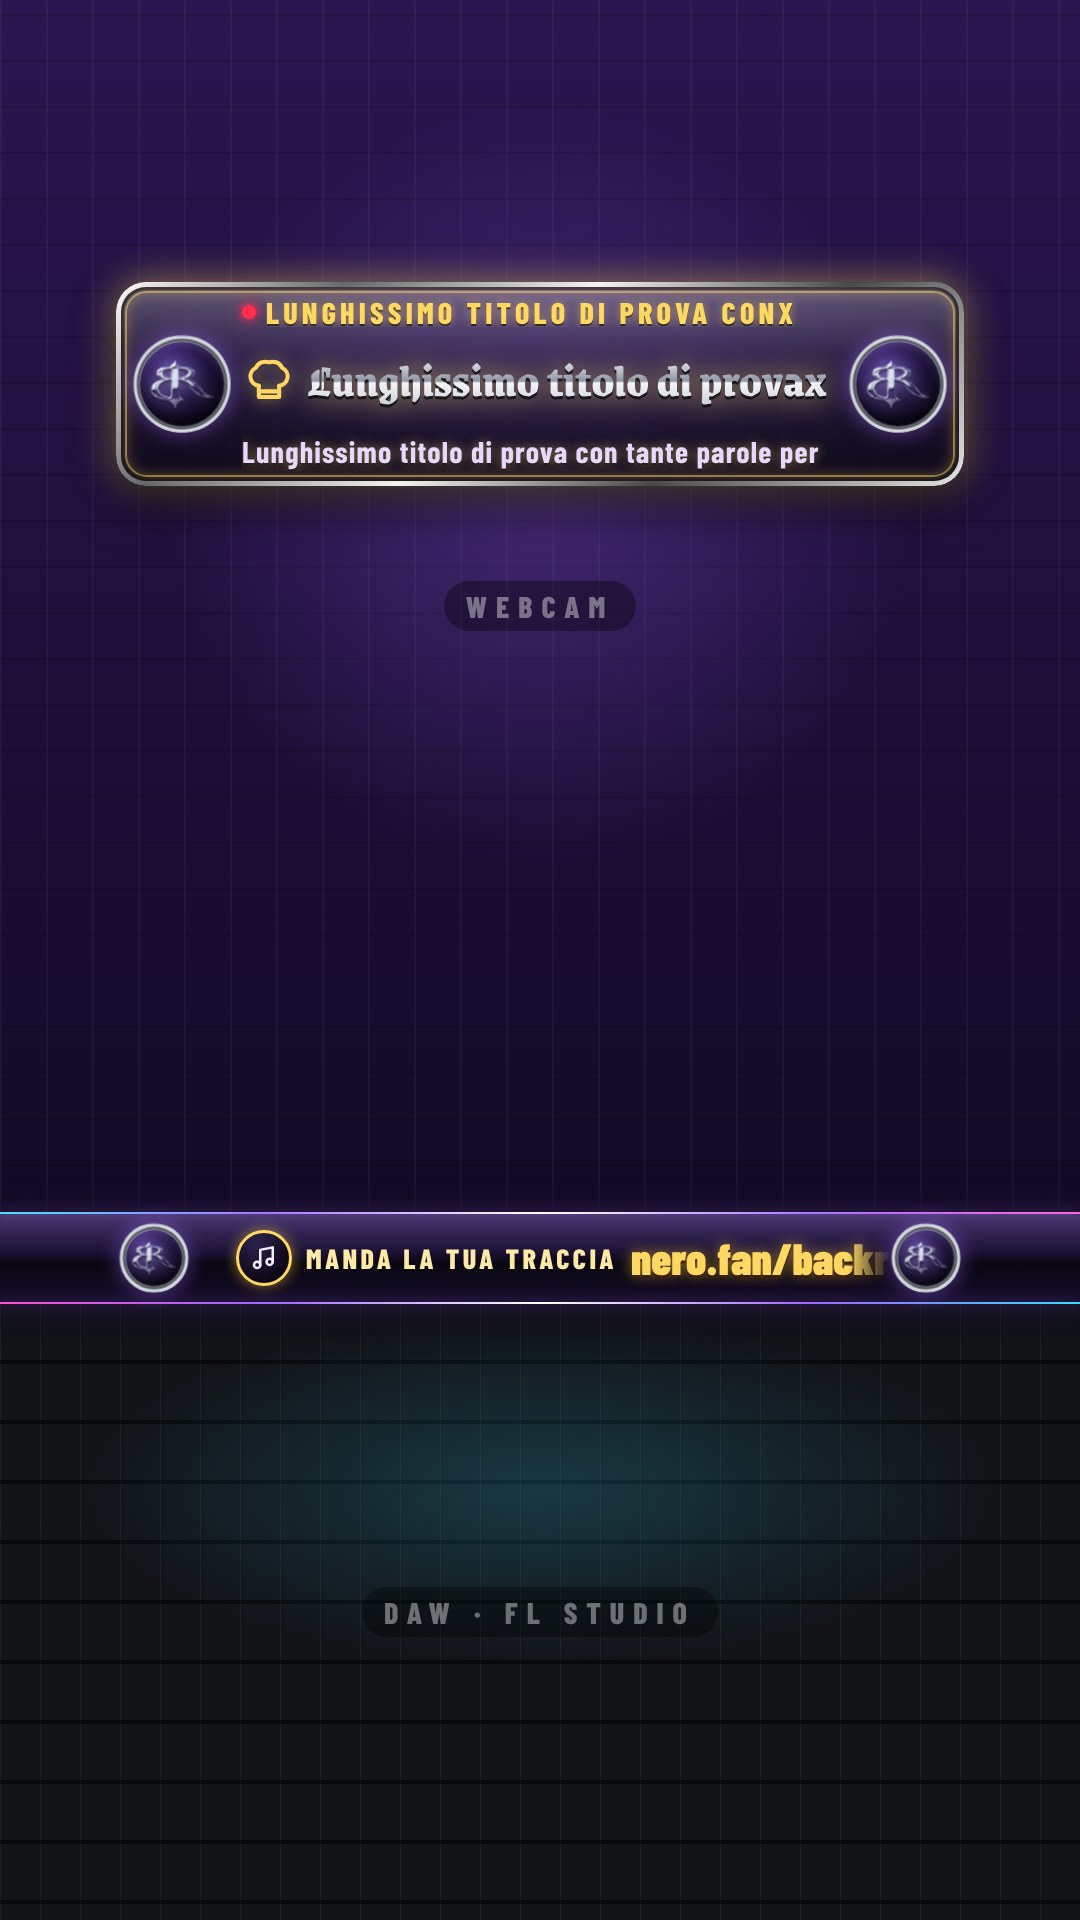
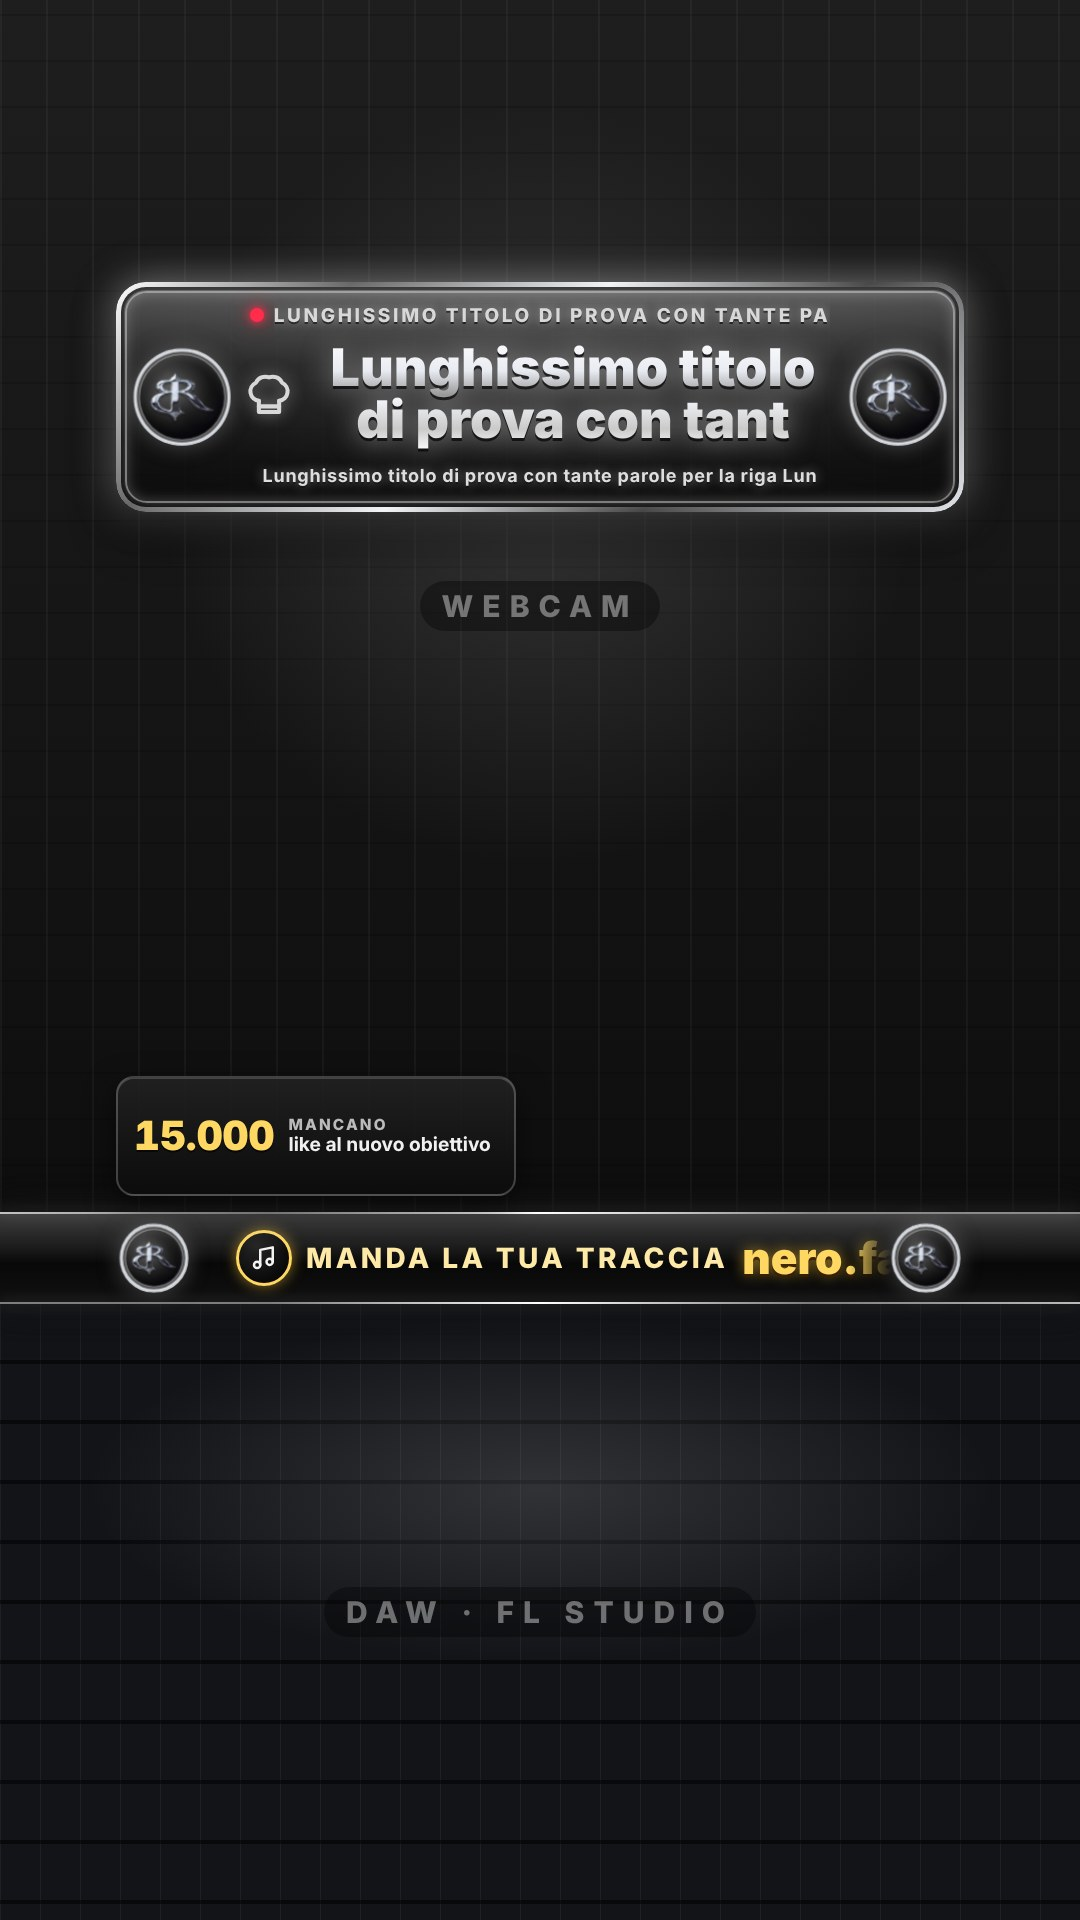
Studio Production e Podcast: scritte più grandi e centrate, diciture e titoli salvati in regia [skip netlify]
Claude-Session: https://claude.ai/code/session_01KknJSv8vijv85bNpvfWr5a

diff --git a/overlay-live/public/regia.html b/overlay-live/public/regia.html
@@ -759,7 +759,16 @@
           <label class="sp-riga">Riga sopra <input id="pr-sopra" autocomplete="off"></label>
           <label class="sp-riga">Titolo <input id="pr-testo" autocomplete="off"></label>
           <label class="sp-riga">Riga sotto <input id="pr-sotto" autocomplete="off"></label>
-          <p class="nota">Al massimo 32, 28 e 48 caratteri (oltre, compare un avviso e resta in onda il testo di prima). Il titolo non può restare vuoto: mentre lo riscrivete resta in onda quello di prima.</p>
+          <p class="nota">Al massimo 40, 36 e 60 caratteri (oltre, compare un avviso e resta in onda il testo di prima). Il titolo non può restare vuoto: mentre lo riscrivete resta in onda quello di prima.</p>
+
+          <h3>Titoli salvati <span class="conta">al massimo 6</span></h3>
+          <p class="nota">Salvate il titolo che avete scritto con un nome: poi si rimette in onda con un tocco, con le sue tre righe (il colore della targa non cambia).</p>
+          <div class="sp-riga pr-salva">
+            <input id="pr-salva-nome" maxlength="24" placeholder="Nome (es. Puntata 12)" autocomplete="off" aria-label="Nome del titolo da salvare">
+            <button type="button" class="piccolo primario" id="pr-salva">Salva questo titolo</button>
+          </div>
+          <ul class="pr-salvati" id="pr-salvati"></ul>
+          <p class="nota" id="pr-salvati-vuoto">Nessun titolo salvato.</p>
         </div>
 
         <div class="sp-colonna" id="pr-col2">
@@ -811,7 +820,7 @@
           <h3>Titolo <span class="conta">va in onda mentre scrivete</span></h3>
           <label class="sp-riga">Titolo della targa <input id="po-testo" autocomplete="off"></label>
           <label class="sp-riga">Riga dell'episodio <input id="po-sotto" autocomplete="off"></label>
-          <p class="nota">Al massimo 32 e 48 caratteri (oltre, compare un avviso e resta in onda il testo di prima); la riga dell'episodio si può lasciare vuota. Il titolo non può restare vuoto: mentre lo riscrivete resta in onda quello di prima.</p>
+          <p class="nota">Al massimo 40 e 60 caratteri (oltre, compare un avviso e resta in onda il testo di prima); la riga dell'episodio si può lasciare vuota. Il titolo non può restare vuoto: mentre lo riscrivete resta in onda quello di prima.</p>
         </div>
 
         <div class="sp-colonna" id="po-col2">
@@ -821,7 +830,11 @@
           <div class="azioni"><button type="button" class="piccolo primario" id="po-tem-salva">Salva tematiche</button></div>
           <p class="nota">Le righe vuote si saltano. Salvando, la tematica attiva resta la stessa (o l'ultima, se l'elenco si accorcia); finché non salvate, il testo scritto qui non viene toccato.</p>
 
-          <h3>Ospiti <span class="conta">in fascia come «Ospite · Nome · @contatto» · al massimo 4</span></h3>
+          <h3>Diciture <span class="conta">le parole fisse della fascia</span></h3>
+          <label class="sp-riga">Dicitura degli ospiti <input id="po-etichetta-ospite" maxlength="40" autocomplete="off" placeholder="Ospite"></label>
+          <p class="nota">È la parola che precede il nome dell'ospite in fascia («Ospite · Nome · @contatto»); si salva uscendo dal campo e non può restare vuota.</p>
+
+          <h3>Ospiti <span class="conta">in fascia come «Dicitura · Nome · @contatto» · al massimo 4</span></h3>
           <ul class="po-ospiti" id="po-ospiti"></ul>
           <div class="azioni"><button type="button" class="piccolo" id="po-ospiti-aggiungi">+ Aggiungi ospite</button></div>
           <p class="nota">Si salva uscendo dal campo; una riga senza nome non va in onda.</p>

diff --git a/overlay-live/public/js/regia-formati.js b/overlay-live/public/js/regia-formati.js
@@ -113,8 +113,50 @@ export function avviaRegiaFormati({ $, el, invia, avviso, riempi, mostra, conn, 
   for (const chip of document.querySelectorAll("button[data-preset]")) chip.addEventListener("click", () => invia("produzione", { preset: chip.dataset.preset }));
   $("#re-ripristina").addEventListener("click", () => invia("reaction", { titolo: TITOLO_REACTION_PREDEFINITO }));
 
+  // ----- Studio Production: titoli salvati (nome, «Salva questo titolo», «Usa», «Togli»; al massimo 6) -----
+  const nomeSalvato = $("#pr-salva-nome");
+  const elencoSalvati = $("#pr-salvati");
+  let firmaSalvati = "";
+  $("#pr-salva").addEventListener("click", async () => {
+    const esito = await invia("produzione", { salva: { nome: nomeSalvato.value } });
+    if (esito.ok) {
+      nomeSalvato.value = "";
+      avviso("Titolo salvato", "ok");
+    }
+  });
+  nomeSalvato.addEventListener("keydown", (e) => {
+    if (e.key === "Enter") $("#pr-salva").click();
+  });
+  elencoSalvati.addEventListener("click", (e) => {
+    const bottone = e.target.closest("button[data-usa], button[data-togli]");
+    if (!bottone) return;
+    if (bottone.dataset.usa) invia("produzione", { usa: bottone.dataset.usa });
+    else invia("produzione", { togli: bottone.dataset.togli });
+  });
+  function disegnaSalvati(s) {
+    const salvati = s.produzione.salvati ?? [];
+    const firma = JSON.stringify(salvati);
+    $("#pr-salva").disabled = salvati.length >= 6;
+    $("#pr-salvati-vuoto").hidden = salvati.length > 0;
+    if (firma === firmaSalvati) return;
+    firmaSalvati = firma;
+    elencoSalvati.replaceChildren(
+      ...salvati.map((v) =>
+        el(
+          "li",
+          { class: "pr-salvato" },
+          el("span", { class: "pr-salvato-nome", title: [v.sopra, v.testo, v.sotto].filter(Boolean).join(" · ") }, v.nome),
+          el("span", { class: "pr-salvato-testo" }, v.testo),
+          el("button", { type: "button", class: "piccolo primario", "data-usa": v.id }, "Usa"),
+          el("button", { type: "button", class: "piccolo", "data-togli": v.id, title: "Togli questo titolo salvato" }, "Togli"),
+        ),
+      ),
+    );
+  }
+
   // I campi del titolo seguono lo stato, tranne quello in uso; il preset in onda è evidenziato.
   function disegnaTitoli(s) {
+    disegnaSalvati(s);
     for (const formato of Object.keys(PREFISSO_TITOLO)) {
       for (const [riga, campo] of Object.entries(campiTitolo(formato))) riempi(campo, s[formato].titolo[riga]);
     }

diff --git a/overlay-live/public/css/doppio.css b/overlay-live/public/css/doppio.css
@@ -3,7 +3,7 @@
 
    POSIZIONI in pixel della tela:
    Verticale 1080×1920 (produzione e reaction): webcam A sotto la pagina (y 0–1212), fascia 1212–1304, schermo B 1304–1920
-   - titolo (targa)        x 116 → 964,   y 282 → 486
+   - titolo (targa)        x 116 → 964,   y 282 → 512
    Reaction orizzontale 1920×1080 (sfondo di marca opaco: le due finestre sono fori nella pagina):
    - titolo (targa)        x 360 → 1560,  y 28 → 188
    - finestra A (host)     x 24 → 600,    y 192 → 894
@@ -14,24 +14,52 @@
    Con ?guide=1 si vedono le zone (solo verticale). */
 .fm.produzione .fm-targa,
 .fm.reaction .fm-targa {
+  /* Corpi di base grandi (30 / 94 / 36) e righe centrate nel riquadro: la targa è alta 230 px (dal 100% al 200% la riga cresce
+     fin dove la sua scatola glielo lascia, poi la pagina la adatta: doppio.js). */
+  --c-sopra: 30px;
+  --c-testo: 94px;
+  --c-sotto: 36px;
+  --h-sopra: 37px;
+  --h-testo: 116px;
+  --h-sotto: 44px;
   left: 116px;
   top: 282px;
   width: 848px;
-  height: 204px;
+  height: 230px;
 }
 /* In orizzontale la targa sta nei 160 px sopra le finestre (che cominciano a y 192): corpi più piccoli di quelli del verticale. */
 .fm.reaction.orizzontale .fm-targa {
   --d: 88px;
   --c-sopra: 26px;
-  --c-testo: 58px;
+  --c-testo: 60px;
   --c-sotto: 28px;
-  --h-sopra: 28px;
-  --h-testo: 65px;
+  --h-sopra: 32px;
+  --h-testo: 74px;
   --h-sotto: 35px;
   left: 360px;
   top: 28px;
   width: 1200px;
   height: 160px;
+}
+/* Le tre righe stanno al centro della targa (la moneta e l'icona restano ai lati). */
+.fm.produzione .fm-targa-sopra,
+.fm.reaction .fm-targa-sopra,
+.fm.produzione .fm-targa-riga,
+.fm.reaction .fm-targa-riga {
+  justify-content: center;
+}
+.fm.produzione .fm-targa-sopra > span,
+.fm.reaction .fm-targa-sopra > span {
+  flex: 0 1 auto;
+}
+.fm.produzione .fm-targa-testo,
+.fm.reaction .fm-targa-testo {
+  flex: 0 1 auto;
+  text-align: center;
+}
+.fm.produzione .fm-targa-sotto,
+.fm.reaction .fm-targa-sotto {
+  text-align: center;
 }
 
 /* ---------- Reaction: richiesta in onda e scaletta ---------- */

diff --git a/overlay-live/public/js/podcast.js b/overlay-live/public/js/podcast.js
@@ -72,12 +72,12 @@ function creaInterruttore(el) {
 const targa = $("#po-targa");
 // Le due righe: l'elemento, il gruppo di testo (dimensione scelta in regia), il corpo massimo e il minimo con cui si adattano.
 // Il titolo può scendere fino a 20 px perché nella targa orizzontale (512 px, due monete) un testo di 32 caratteri deve entrare.
-// I massimi sono i corpi di base di podcast.css (--c-testo 48, --c-sotto 32): la scatola di ogni riga è alta quanto serve alle lettere.
+// I massimi sono i corpi di base di podcast.css (--c-testo 56, --c-sotto 34; in orizzontale 50 e 28): la scatola di ogni riga è alta quanto serve alle lettere.
 const titolo = creaTarga({
   statico: STATICO,
   righe: {
-    testo: { el: $("#po-targa-testo"), gruppo: "targa", massimo: 48, minimo: 20 },
-    sotto: { el: $("#po-targa-sotto"), gruppo: "targa", massimo: 32, minimo: 14, nascondiSeVuota: true },
+    testo: { el: $("#po-targa-testo"), gruppo: "targa", massimo: orizzontale ? 50 : 56, minimo: 20 },
+    sotto: { el: $("#po-targa-sotto"), gruppo: "targa", massimo: orizzontale ? 28 : 34, minimo: orizzontale ? 12 : 14, nascondiSeVuota: true },
   },
 });
 
@@ -130,7 +130,7 @@ function riempiPannello(s) {
     riga.icona.toggleAttribute("hidden", stati[i] === "prossima"); // la prossima ha un cerchietto, disegnato dal CSS
     riga.icona.querySelector("use").setAttribute("href", stati[i] === "fatta" ? "#ic-spunta" : "#ic-play");
     riga.testo.textContent = voce;
-    adattaRiga(riga.testo, 34 * scala, 22);
+    adattaRiga(riga.testo, 34 * scala, orizzontale ? 14 : 22); // 48 caratteri nel pannello orizzontale (512 px) chiedono un corpo piccolo
   });
   cursore.hidden = t.elenco.length === 0;
   cursore.style.setProperty("--attiva", String(t.attiva));

diff --git a/overlay-live/public/css/podcast.css b/overlay-live/public/css/podcast.css
@@ -4,7 +4,7 @@
    POSIZIONI in pixel della tela:
    Verticale 1080×1920
    - targa                x 116 → 964,   y 282 → 410
-   - pannello Tematiche   x 116 → 964,   y 424 → 904   (sempre al centro: `lato` conta solo in orizzontale)
+   - pannello Tematiche   x 116 → 964,   y 432 → 904   (sempre al centro: `lato` conta solo in orizzontale)
    - linea di divisione   x 538 → 542,   y 240 → 1100
    - fascia social        x 0 → 1080,    y 1108 → 1200 (formati.css)
    Orizzontale 1920×1080 (?formato=orizzontale)
@@ -16,14 +16,14 @@
 
 /* ---------- Targa: «Back Rooms Podcast» e la riga dell'episodio ---------- */
 .fm.podcast .fm-targa {
-  --c-testo: 48px;
-  --c-sotto: 32px;
-  --h-testo: 55px;
-  --h-sotto: 40px;
+  --c-testo: 56px;
+  --c-sotto: 34px;
+  --h-testo: 69px;
+  --h-sotto: 42px;
   left: 116px;
   top: 282px;
   width: 848px;
-  height: 128px;
+  height: 140px;
   padding: 0 14px;
   z-index: 3;
 }
@@ -39,13 +39,18 @@
   text-align: center;
 }
 .fm.podcast.orizzontale .fm-targa {
+  --c-testo: 50px;
+  --c-sotto: 28px;
+  --h-testo: 62px;
+  --h-sotto: 35px;
   left: 48px;
   top: 36px;
   width: 512px;
+  height: 136px;
   padding: 0 12px;
 }
 .fm.podcast.orizzontale .fm-targa .fm-moneta {
-  --d: 56px;
+  --d: 44px;
 }
 
 /* ---------- Linea di divisione: filo neon cromato che si disegna dal centro verso gli estremi ---------- */
@@ -93,9 +98,9 @@
 .po-tematiche {
   --h-tema: 48px;
   left: 116px;
-  top: 424px;
+  top: 432px;
   width: 848px;
-  height: 480px;
+  height: 472px;
   padding: 20px;
   z-index: 2;
   background: linear-gradient(180deg, rgba(255, 255, 255, 0.18), rgba(255, 255, 255, 0.04)), rgba(10, 10, 10, 0.56);

diff --git a/overlay-live/public/js/regia-podcast.js b/overlay-live/public/js/regia-podcast.js
@@ -81,6 +81,17 @@ export function avviaRegiaPodcast({ $, el, invia, riempi }) {
     if (esito.ok) for (const campo of [campoTitolo, campoElenco]) delete campo.dataset.modificato; // da qui i campi seguono lo stato
   });
 
+  // ----- Diciture: la parola che precede il nome dell'ospite in fascia (si salva uscendo dal campo) -----
+  const campoEtichetta = $("#po-etichetta-ospite");
+  campoEtichetta.addEventListener("change", async () => {
+    if (!campoEtichetta.value.trim()) {
+      if (stato) campoEtichetta.value = stato.podcast.etichette?.ospite ?? "Ospite"; // la dicitura non può restare vuota
+      return;
+    }
+    const esito = await invia("podcast", { etichette: { ospite: campoEtichetta.value } });
+    if (!esito.ok && stato) campoEtichetta.value = stato.podcast.etichette?.ospite ?? "Ospite";
+  });
+
   // ----- Ospiti: si salvano uscendo da un campo; una riga senza nome non va in onda -----
   const elencoOspiti = $("#po-ospiti");
   const aggiungi = $("#po-ospiti-aggiungi");
@@ -145,6 +156,7 @@ export function avviaRegiaPodcast({ $, el, invia, riempi }) {
       riempi(campoElenco, t.elenco.join("\n"));
       if (lato !== document.activeElement) lato.value = t.lato;
       disegnaOspiti(s);
+      riempi(campoEtichetta, s.podcast.etichette?.ospite ?? "Ospite");
     },
     // Scorciatoie con il Podcast in onda: una funzione da chiamare, o null se il tasto non è suo.
     scorciatoia(tasto) {

diff --git a/overlay-live/public/js/doppio.js b/overlay-live/public/js/doppio.js
@@ -53,10 +53,11 @@ const icona = $("#fm-titolo-icona");
 const titolo = creaTarga({
   statico: STATICO,
   righe: {
-    // I massimi sono i corpi di base di formati.css e doppio.css (--c-sopra, --c-testo, --c-sotto): 28 / 88 / 32 in verticale, 26 / 58 / 28 in orizzontale.
-    sopra: { el: $("#fm-titolo-sopra"), gruppo: "sopra", massimo: orizzontale ? 26 : 28, minimo: 14 },
-    testo: { el: $("#fm-titolo-testo"), gruppo: "titolo", massimo: orizzontale ? 58 : 88, minimo: orizzontale ? 32 : 40 },
-    sotto: { el: $("#fm-titolo-sotto"), gruppo: "sotto", massimo: orizzontale ? 28 : 32, minimo: 16, nascondiSeVuota: true },
+    // I massimi sono i corpi di base di doppio.css (--c-sopra, --c-testo, --c-sotto): 30 / 94 / 36 in verticale, 26 / 60 / 28 in orizzontale.
+    // Il titolo lungo (fino a 60 caratteri) può andare su due righe: il minimo è basso apposta.
+    sopra: { el: $("#fm-titolo-sopra"), gruppo: "sopra", massimo: orizzontale ? 26 : 30, minimo: 14 },
+    testo: { el: $("#fm-titolo-testo"), gruppo: "titolo", massimo: orizzontale ? 60 : 94, minimo: orizzontale ? 26 : 28 },
+    sotto: { el: $("#fm-titolo-sotto"), gruppo: "sotto", massimo: orizzontale ? 28 : 36, minimo: 16, nascondiSeVuota: true },
   },
 });
 

diff --git a/overlay-live/public/css/regia.css b/overlay-live/public/css/regia.css
@@ -1150,6 +1150,46 @@ button.primario.attivo {
   cursor: default;
 }
 
+/* Studio Production: titoli salvati */
+.pr-salva {
+  display: grid;
+  grid-template-columns: minmax(0, 1fr) auto;
+  gap: 8px;
+}
+.pr-salvati {
+  list-style: none;
+  margin: 0 0 8px;
+  padding: 0;
+  display: grid;
+  gap: 6px;
+}
+.pr-salvato {
+  display: grid;
+  grid-template-columns: minmax(0, 0.7fr) minmax(0, 1fr) auto auto;
+  gap: 8px;
+  align-items: center;
+  padding: 6px 8px;
+  border-radius: 10px;
+  background: rgba(255, 255, 255, 0.04);
+}
+.pr-salvato-nome {
+  font-weight: 700;
+  overflow: hidden;
+  text-overflow: ellipsis;
+  white-space: nowrap;
+}
+.pr-salvato-testo {
+  opacity: 0.7;
+  font-size: 13px;
+  overflow: hidden;
+  text-overflow: ellipsis;
+  white-space: nowrap;
+}
+#pr-salva:disabled {
+  opacity: 0.35;
+  cursor: default;
+}
+
 /* Richieste con regalo (Reaction, Drum): regali visti e coda */
 .regali-visti {
   display: flex;

diff --git a/overlay-live/public/js/pagina.js b/overlay-live/public/js/pagina.js
@@ -67,7 +67,7 @@ export function adattaTesto(el, massimo, minimo) {
   let corpo = massimo;
   el.style.fontSize = `${corpo}px`;
   while (!entra(el) && corpo > minimo) {
-    corpo -= 2;
+    corpo = Math.max(minimo, corpo - 2); // mai sotto il minimo, anche se si parte da un corpo dispari
     el.style.fontSize = `${corpo}px`;
   }
 }
